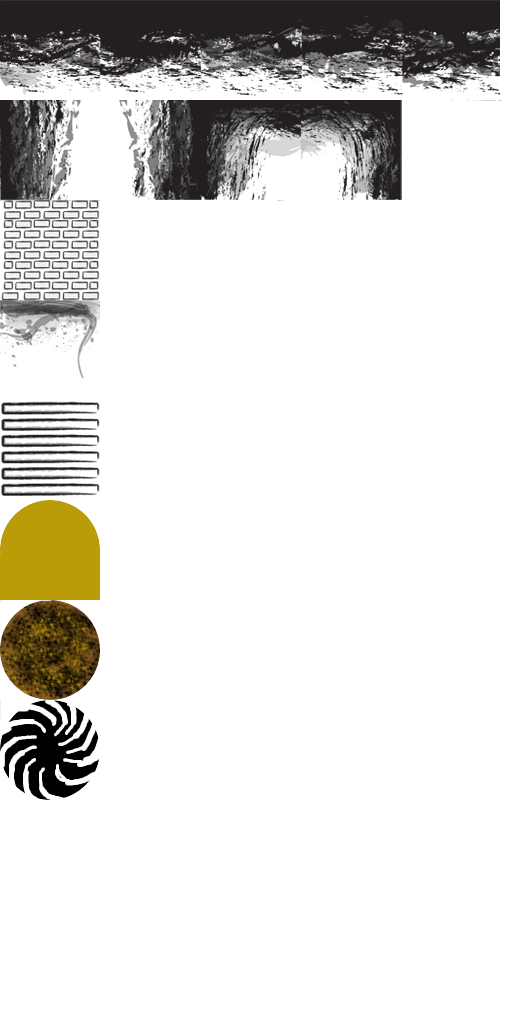
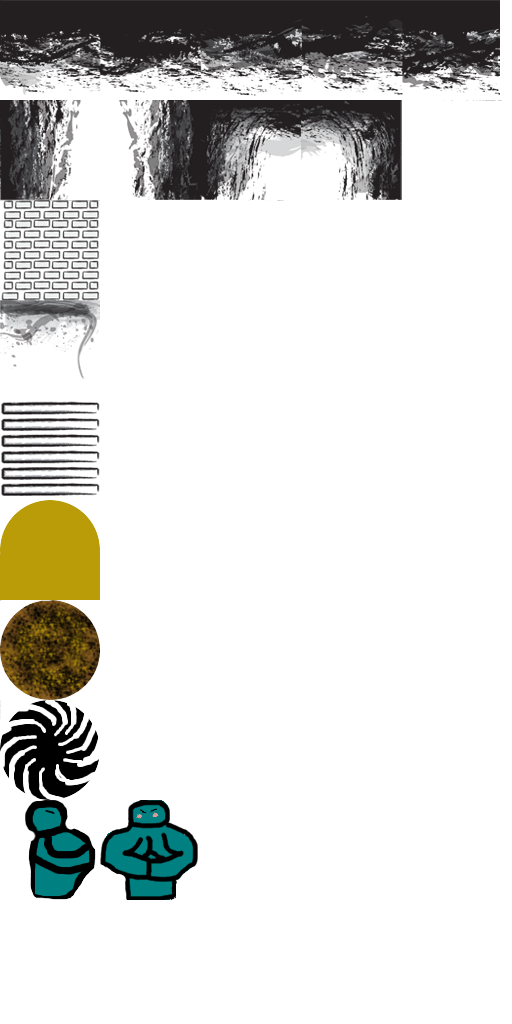
Fixed small randomizing issue with floor tiles. Also added in bouncers.

Changed region(s): [[0.0312, 0.7812, 0.4062, 0.9062]]

diff --git a/src/map.cpp b/src/map.cpp
@@ -227,7 +227,17 @@ bool Map::load_map(const char *map_bmp, vector<Moveable *> &moveables,
       if(red[0] == 0 && green[0] == 0 && blue[0] == 0)
       {
         map[x][y][M_COLL] = 1;
-        map[x][y][M_TILE] = rand() % 5 + 1; // randomly selects a block 1-5
+        if (x > 0)
+        {
+          do
+          {
+            map[x][y][M_TILE] = rand() % 5 + 1; // randomly selects a block 1-5
+          } while (map[x-1][y][M_TILE] == map[x][y][M_TILE]);
+        }
+        else
+        {
+          map[x][y][M_TILE] = rand() % 5 + 1; // randomly selects a block 1-5
+        }
       }
       // outside of the playable area
       if(red[0] == 0 && green[0] == 128 && blue[0] == 0)
@@ -321,6 +331,19 @@ bool Map::load_map(const char *map_bmp, vector<Moveable *> &moveables,
                                TILE_WIDTH, -y * TILE_WIDTH +
                                3.0f * SCREEN_HEIGHT / 4.0f - TILE_HEIGHT - y_offset);
         }
+      }
+      // Body Guards
+      // Right
+      else if(red[0] == 0 && green[0] == 128 && blue[0] == 128)
+      {
+        map[x][y][M_COLL] = 1;
+        map[x][y][M_TILE] = BOUNCER_CLOSED_R;
+      }
+      // Left
+      else if(red[0] == 0 && green[0] == 128 && blue[0] == 129)
+      {
+        map[x][y][M_COLL] = 1;
+        map[x][y][M_TILE] = BOUNCER_CLOSED_L;
       }
     }
     // apparently there's some sort of bitmap "newline"

diff --git a/src/main.cpp b/src/main.cpp
@@ -115,7 +115,7 @@ void initLevel(int level)
   Drawable *block1, *background, *breakable, *plat, *ladder, *paused_background;
   Drawable *map_image, *pointer, *left_block, *right_block, *left_corner_block;
   Drawable *right_corner_block, *moveable, *goal, *block2, *block3, *block4;
-  Drawable *block5, *black_hole;
+  Drawable *block5, *black_hole, *bouncer_cr, *bouncer_cl, *bouncer_o;
   Texture *t, *bg, *tiles, *pause_bg, *mi, *pi, *ahnold, *jumper, *nums, *ps_ic;
   vector<Texture*> textures;
   vector<Moveable*> moveables;
@@ -235,6 +235,11 @@ void initLevel(int level)
   pointer = new Drawable(650, 270, 1, 1, VARIABLE, pi);
   goal = new Drawable(0.0f, 0.0f, GOALT, 1, TILE, tiles);
   black_hole = new Drawable(0.0f, 0.0f, BH, 1, TILE, tiles);
+  bouncer_cr = new Drawable(0.0f, 0.0f, BOUNCERS, 1, TILE, tiles);
+  bouncer_cl = new Drawable(0.0f, 0.0f, BOUNCERS, 1, TILE, tiles);
+  bouncer_cl->change_direction(LEFT);
+  bouncer_o = new Drawable(0.0f, 0.0f, BOUNCERS, 1, TILE, tiles);
+  bouncer_o->set_cur_frame(2);
   
   // place all drawables into vector
   // this order MUST match the order
@@ -256,6 +261,9 @@ void initLevel(int level)
   v.push_back(breakable);
   v.push_back(goal);
   v.push_back(black_hole);
+  v.push_back(bouncer_cr);
+  v.push_back(bouncer_cl);
+  v.push_back(bouncer_o);
   
   textures.clear();
   textures.push_back(ahnold);

diff --git a/src/moveable.cpp b/src/moveable.cpp
@@ -180,3 +180,19 @@ bool Moveable::will_collide_moveables_y(vector<Moveable *>moveables, int cur,
   }
   return false;
 }
+
+bool Moveable::will_collide_specials_x(vector<Special *>specials, int *collide)
+{
+  for (unsigned int i = 0; i < specials.size(); ++i)
+  {
+    if (will_collide_Dx((Drawable *)specials.at(i)))
+    {
+      if (collide)
+      {
+        *collide = i;
+      }
+      return true;
+    }
+  }
+  return false;
+}

diff --git a/src/game_state.cpp b/src/game_state.cpp
@@ -173,7 +173,8 @@ void Game_State::update(int &delta)
     }
     moveables.at(i)->move(0, moveables.at(i)->getVSpeed());
     
-    if(moveables.at(i)->will_collide_x(map))
+    if(moveables.at(i)->will_collide_x(map) ||
+       moveables.at(i)->will_collide_specials_x(specials, NULL))
     {
       moveables.at(i)->setHSpeed(0);
       temp_move = moveables.at(i)->get_link();

diff --git a/src/moveable.h b/src/moveable.h
@@ -38,6 +38,7 @@ public:
   bool will_collide_y(Map *m);
   bool will_collide_moveables_x(vector<Moveable *> moveables, int cut, int *collide);
   bool will_collide_moveables_y(vector<Moveable *> moveables, int cut, int *collide);
+  bool will_collide_specials_x(vector<Special *> specials, int *collide);
   
 };
 #endif // FLOCK__MOVEABLE__H

diff --git a/src/defines.h b/src/defines.h
@@ -106,6 +106,9 @@ typedef enum
   BREAKABLE,
   GOAL,
   BLACK_HOLE,
+  BOUNCER_CLOSED_R,
+  BOUNCER_CLOSED_L,
+  BOUNCER_OPEN,
   OUTSIDE
 } tile_type;
 
@@ -126,7 +129,8 @@ enum
   LADDS,
   GOALT,
   PUSH,
-  BH
+  BH,
+  BOUNCERS
 };
 
 enum

diff --git a/src/drawable.h b/src/drawable.h
@@ -1,8 +1,6 @@
 #ifndef FLOCK__DRAWABLE__H
 #define FLOCK__DRAWABLE__H
 
-// #include <iostream>
-
 #ifdef __APPLE__
   #include <OpenGL/OpenGL.h>
   #include <GLUT/glut.h>
